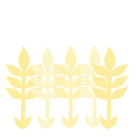
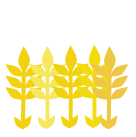
style updates

diff --git a/src/components/Game.vue b/src/components/Game.vue
@@ -1,6 +1,7 @@
 <template>
   <div class="perspective">
     <div class="bubble" v-show="explore"></div>
+    <div class="ship-bottom" v-show="explore"></div>
     <div
       class="wrapper"
       :style="wrapperGridStyle"
@@ -529,7 +530,7 @@ export default {
   transform-style: preserve-3d;
 
   div {
-    background-color: #eaad3e;
+    background-color: #d8f1bc;
     border: 1px dashed #172122;
   }
 }
@@ -585,10 +586,10 @@ export default {
   display: inline-flex;
   align-items: center;
   justify-content: center;
-  margin-right: 5px;
-  padding-left: 10px;
-  padding-right: 10px;
-  height: 2rem;
+  margin-right: 8px;
+  padding-left: 14px;
+  padding-right: 14px;
+  height: 2.5rem;
   line-height: 2rem;
   background-color: #f1f0ed;
   border: none;
